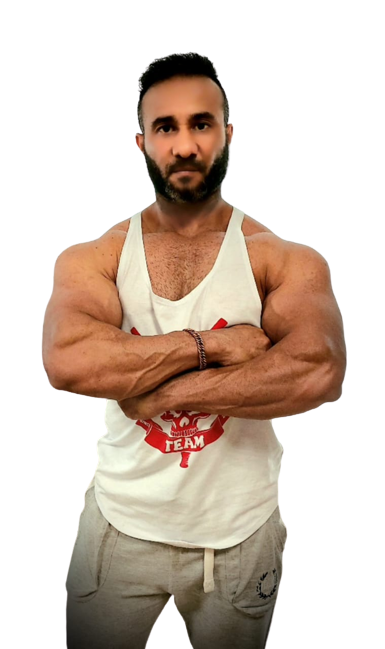
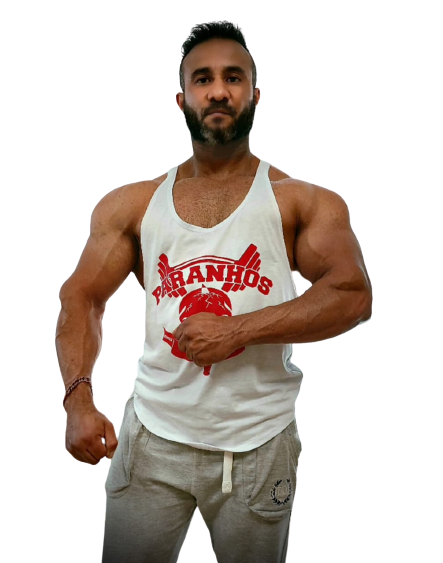
style: estilizado fotos novas do perfil do professor

diff --git a/src/__mocks__/index.tsx b/src/__mocks__/index.tsx
@@ -46,6 +46,7 @@ export const team = [
     name: `${i18n.t("team.teacher.one.name")}`,
     functionTeacher: `${i18n.t("team.teacher.one.functionTeacher")}`,
     image: images.charles,
+    perfil: images.charlesPerfil,
     specialties: [
       { name: `${i18n.t("team.teacher.one.specialties.one")}` },
       { name: `${i18n.t("team.teacher.one.specialties.two")}` },
@@ -63,6 +64,7 @@ export const team = [
     name: `${i18n.t("team.teacher.two.name")}`,
     functionTeacher: `${i18n.t("team.teacher.two.functionTeacher")}`,
     image: images.harley,
+    perfil: images.harleyPerfil,
     specialties: [
       { name: `${i18n.t("team.teacher.two.specialties.one")}` },
       { name: `${i18n.t("team.teacher.two.specialties.two")}` },
@@ -80,6 +82,7 @@ export const team = [
     name: `${i18n.t("team.teacher.third.name")}`,
     functionTeacher: `${i18n.t("team.teacher.third.functionTeacher")}`,
     image: images.vinicius,
+    perfil: images.viniciusPerfil,
     specialties: [
       { name: `${i18n.t("team.teacher.third.specialties.one")}` },
       { name: `${i18n.t("team.teacher.third.specialties.two")}` },
@@ -97,6 +100,7 @@ export const team = [
     name: `${i18n.t("team.teacher.four.name")}`,
     functionTeacher: `${i18n.t("team.teacher.four.functionTeacher")}`,
     image: images.monica,
+    perfil: images.monicaPerfil,
     specialties: [
       { name: `${i18n.t("team.teacher.four.specialties.one")}` },
       { name: `${i18n.t("team.teacher.four.specialties.two")}` },
@@ -115,6 +119,7 @@ export const team = [
     name: `${i18n.t("team.teacher.five.name")}`,
     functionTeacher: `${i18n.t("team.teacher.five.functionTeacher")}`,
     image: images.janaina,
+    perfil: images.janainaPerfil,
     specialties: [
       { name: `${i18n.t("team.teacher.five.specialties.one")}` },
       { name: `${i18n.t("team.teacher.five.specialties.two")}` },
@@ -132,6 +137,7 @@ export const team = [
     name: `${i18n.t("team.teacher.six.name")}`,
     functionTeacher: `${i18n.t("team.teacher.six.functionTeacher")}`,
     image: images.aline,
+    perfil: images.alinePerfil,
     specialties: [
       { name: `${i18n.t("team.teacher.six.specialties.one")}` },
       { name: `${i18n.t("team.teacher.six.specialties.two")}` },
@@ -184,6 +190,20 @@ export const plans = [
       { name: `${i18n.t("plans.gold.benefits.two")}` },
       { name: `${i18n.t("plans.gold.benefits.three")}` },
       { name: `${i18n.t("plans.gold.benefits.four")}` },
+    ],
+  },
+  {
+    legend: `${i18n.t("plans.group.legend")}`,
+    price: `${i18n.t("plans.group.price")}`,
+    month: `${i18n.t("plans.group.month")}`,
+    subtitle: `${i18n.t("plans.group.subtitle")}`,
+    destak: true,
+    link: "Paulinho_marques2012@hotmail.com",
+    benefits: [
+      { name: `${i18n.t("plans.couple.benefits.one")}` },
+      { name: `${i18n.t("plans.couple.benefits.two")}` },
+      { name: `${i18n.t("plans.couple.benefits.three")}` },
+      { name: `${i18n.t("plans.couple.benefits.four")}` },
     ],
   },
   {

diff --git a/src/assets/index.ts b/src/assets/index.ts
@@ -28,6 +28,12 @@ import Monica from "./images/monica.png";
 import Janaina from "./images/janaina.png";
 import Vinicius from "./images/vinicius.png";
 import Harley from "./images/harley.png";
+import HarleyPerfil from "./images/perfil-harley.png";
+import CharlesPerfil from "./images/perfil-charles.png";
+import ViniciusPerfil from "./images/perfil-vinicius.png";
+import MonicaPerfil from "./images/perfil-monica.png";
+import JanainaPerfil from "./images/perfil-janaina.png";
+import AlinePerfil from "./images/perfil-aline.png";
 
 export const images = {
   logo: Logo,
@@ -46,6 +52,12 @@ export const images = {
   janaina: Janaina,
   vinicius: Vinicius,
   aline: Aline,
+  alinePerfil: AlinePerfil,
+  janainaPerfil: JanainaPerfil,
+  monicaPerfil: MonicaPerfil,
+  charlesPerfil: CharlesPerfil,
+  viniciusPerfil: ViniciusPerfil,
+  harleyPerfil: HarleyPerfil,
 };
 export const icons = {
   facebook: Facebook,

diff --git a/src/components/organism/Plans/style.ts b/src/components/organism/Plans/style.ts
@@ -17,7 +17,7 @@ export const CardPlans = styled.div`
   display: flex;
   align-items: center;
   justify-content: center;
-  gap: 15px;
+  gap: 30px;
   flex-wrap: wrap;
   color: ${COLORS.white_default};
   @media (max-width: 769px) {
@@ -34,7 +34,7 @@ export const CardPlan = styled.div`
   padding: 22px;
   border-radius: 8px;
   background-color: red;
-  width: 22%;
+  width: 26%;
   height: 60vh;
   cursor: pointer;
   position: relative;
@@ -44,9 +44,10 @@ export const CardPlan = styled.div`
   transition: all 0.5s ease;
   min-width: 300px;
 
-  :nth-child(2) {
+  :nth-child(2),
+  :nth-child(4) {
     background-color: ${COLORS.black};
-    width: 25%;
+    width: 28%;
     min-width: 330px;
     height: 65vh;
     color: ${COLORS.gray};

diff --git a/src/components/molecules/Modal/index.tsx b/src/components/molecules/Modal/index.tsx
@@ -16,7 +16,7 @@ const Modal = ({ id = "modal", handleModal, details, modal }: any) => {
       handleModal();
     }
   };
-  const { name, image, specialties } = details;
+  const { name, perfil, specialties } = details;
   const element: any = document.getElementById("main");
 
   useEffect(() => {
@@ -27,7 +27,7 @@ const Modal = ({ id = "modal", handleModal, details, modal }: any) => {
       <CardModal>
         <ButtonClose onClick={handleModal}>x</ButtonClose>
         <CardDetails>
-          <LogoImage src={image} alt="" />
+          <LogoImage src={perfil} alt="" />
           <h1>{name}</h1>
           <List>
             {specialties?.map((specialtie: any) => (

diff --git a/src/translate/languages/pt.js b/src/translate/languages/pt.js
@@ -174,6 +174,18 @@ export const messages = {
             four: "Acompanhamento individual",
           },
         },
+        group: {
+          legend: "Pacote Grupo Trimestral ",
+          price: "200,00",
+          month: "Trimestral",
+          subtitle: "Benefícios do plano",
+          benefits: {
+            one: "Treinos em alta intensidade ",
+            two: "Horários fixos e diversificados",
+            three: "Motivacional",
+            four: "Até no máximo 04 pessoas ",
+          },
+        },
         couple: {
           legend: "Consultoria Bodybuilding ",
           price: "50,00",

diff --git a/src/translate/languages/en.js b/src/translate/languages/en.js
@@ -174,6 +174,18 @@ export const messages = {
             four: "Individual follow-up",
           },
         },
+        group: {
+          legend: "Quarterly Group Package ",
+          price: "200,00",
+          month: "Quarterly",
+          subtitle: "Benefícios do plano",
+          benefits: {
+            one: "High intensity workouts",
+            two: "Fixed and varied hours",
+            three: "Motivational",
+            four: "Up to a maximum of 04 people",
+          },
+        },
         couple: {
           legend: "Bodybuilding Consulting",
           price: "50,00",

diff --git a/src/components/organism/Team/style.ts b/src/components/organism/Team/style.ts
@@ -58,6 +58,16 @@ export const Teacher = styled.div`
     position: relative;
     right: 20px;
   }
+  #harley {
+    position: relative;
+    top: 60px;
+    width: 330px;
+  }
+  #monica {
+    position: relative;
+    top: 30px;
+    width: 380px;
+  }
 
   h1 {
     text-transform: uppercase;

diff --git a/src/components/molecules/Modal/style.ts b/src/components/molecules/Modal/style.ts
@@ -39,7 +39,8 @@ export const LogoImage = styled.img`
   width: 150px;
   height: 150px;
   border-radius: 100%;
-  background: ${COLORS.third};
+  background: ${COLORS.primary};
+
   @media (max-width: 769px) {
     width: 100px;
     height: 100px;
